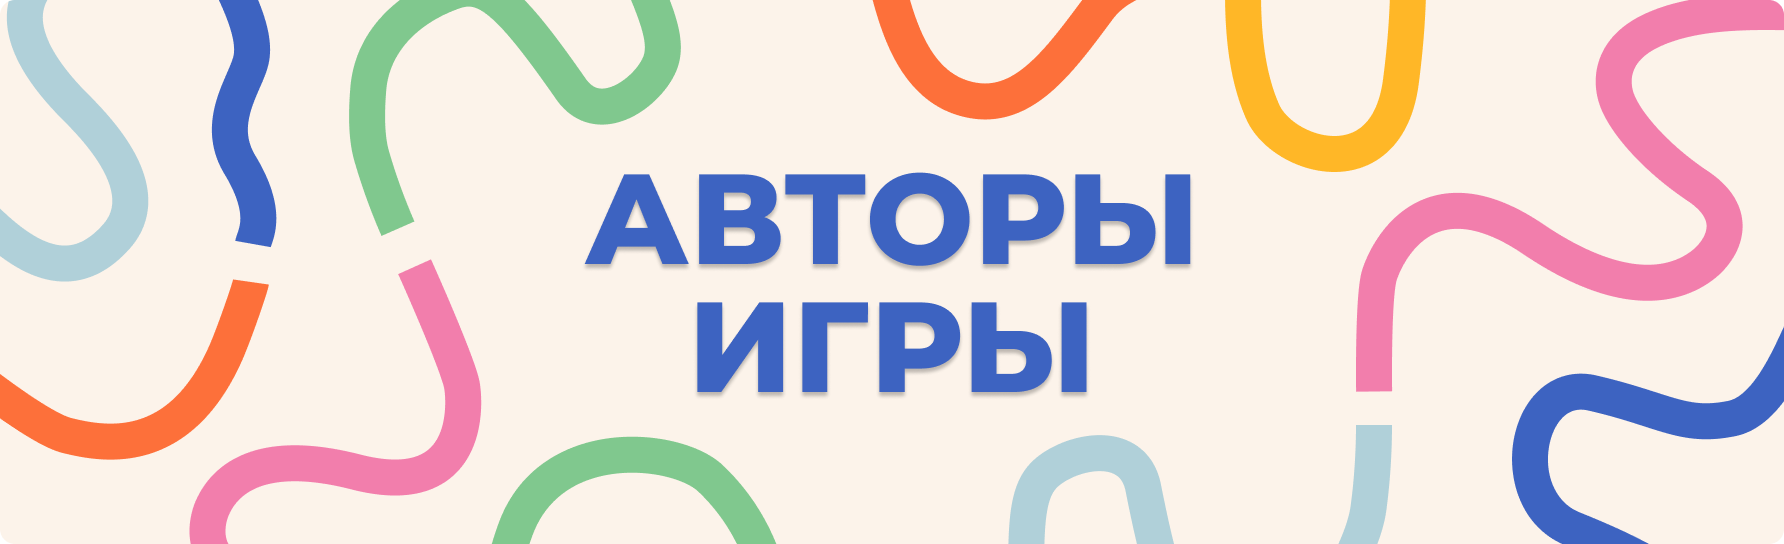
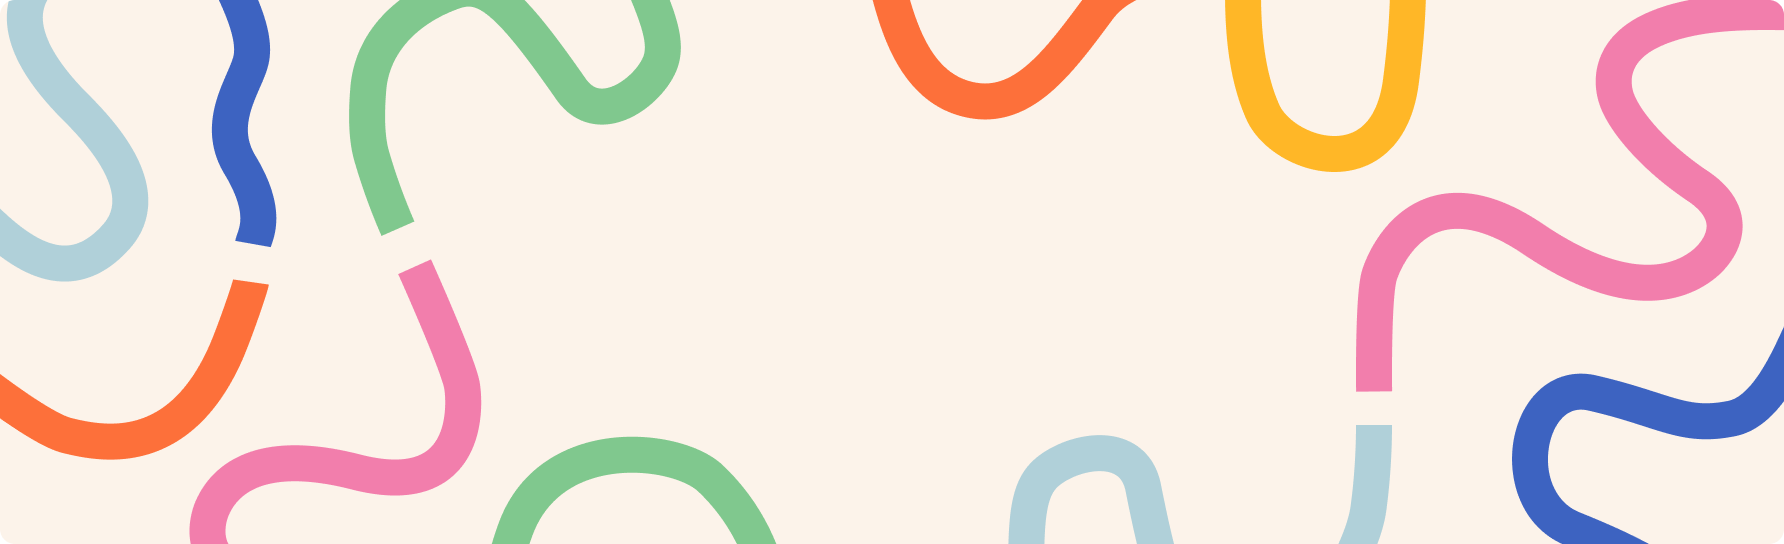
changes header on authors pages

Changed region(s): [[0.3083, 0.3125, 0.6783, 0.5], [0.37, 0.5312, 0.6166, 0.75]]

diff --git a/css/header/header.scss b/css/header/header.scss
@@ -18,14 +18,13 @@
   &__author {
     text-align: center;
     align-items: center;
-    background: url(../../images/header/authors.png);
+    background: url(../../images/header/HEAD.png);
     background-position: center;
     background-size: cover;
   }
 
   &__about,
-  &__ruleBook {
-    background: url(../../images/header/headpic.png);
+  &__ruleBook {background: url(../../images/header/headpic.png);
     background-position: center;
     background-size: cover;
   }

diff --git a/css/global/global.scss b/css/global/global.scss
@@ -1,4 +1,4 @@
-@import url(../../fonts/fonts.css);
+@import url(/fonts/fonts.css);
 @import url(../colors/colors.css);
 *,
 body {
